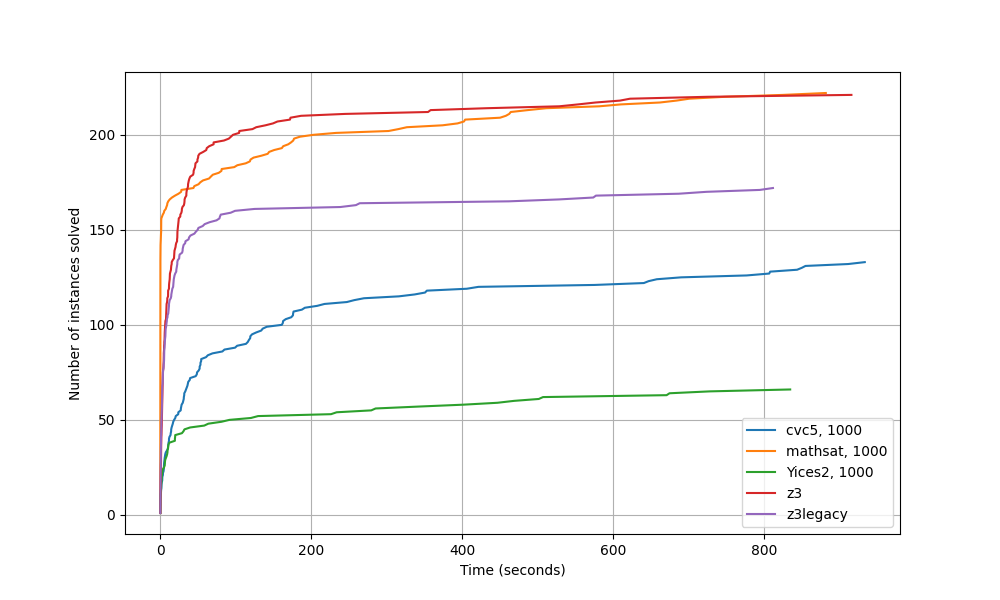
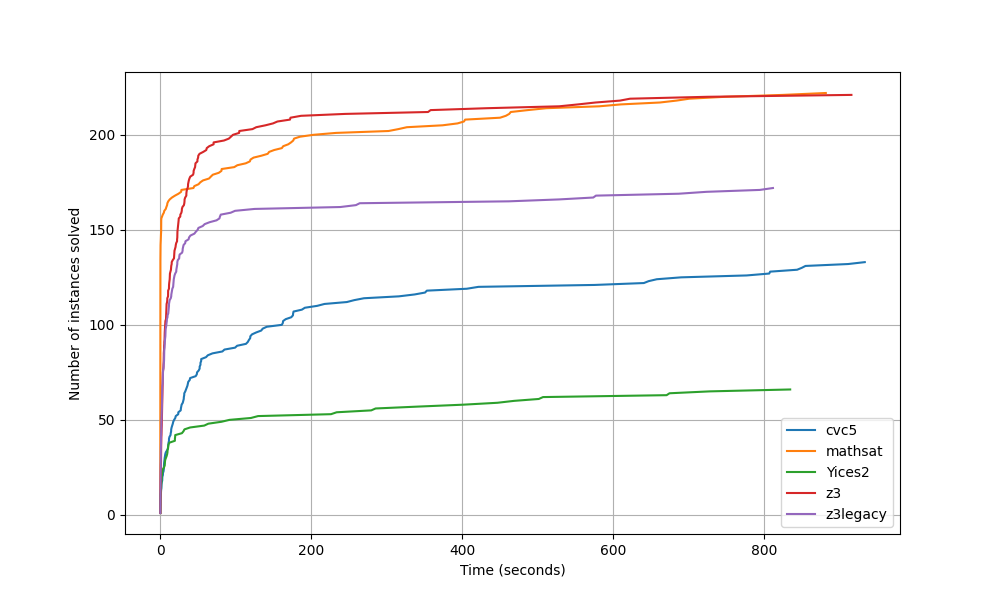
more fixes

Changed region(s): [[0.744, 0.69, 0.899, 0.87]]

diff --git a/arithmetic/data/cactus.py b/arithmetic/data/cactus.py
@@ -39,6 +39,7 @@ class Stats:
                     self.feature = row[1].split('=',1)[0]
                     self.feature = remove_prefix(self.feature)
                     self.feature = self.feature.replace("_","-")                                        
+                    self.feature = self.feature.replace(", 1000","")                                        
                     continue
                 if count == 1:
                     index = 0
@@ -50,7 +51,7 @@ class Stats:
                     continue
                 is_sat = int(row[col2index["# SAT"]])
                 is_unsat = int(row[col2index["# UNSAT"]])
-                if is_sat or is_unsat:
+                if is_sat==1 or is_unsat==1:
                     t_cpu = float(row[col2index["T_wc"]])
                     self.times.append(t_cpu)
  
@@ -66,15 +67,13 @@ def create_stats(args):
             print(f"processing {f}")
             yield Stats(f)
 
-import itertools
-
 compare_pat = re.compile(r"compare-([^-]+)-(.+)\.*")
 
 def include(args, f):
     if len(args) == 1:
         return True
     else:
-        return any(arg.lower() in f.lower() for arg in itertools.tail(args))
+        return any(arg.lower() in f.lower() for arg in args[1:])
 
 def split_solver(benchmark):
     if "compare" in benchmark:
